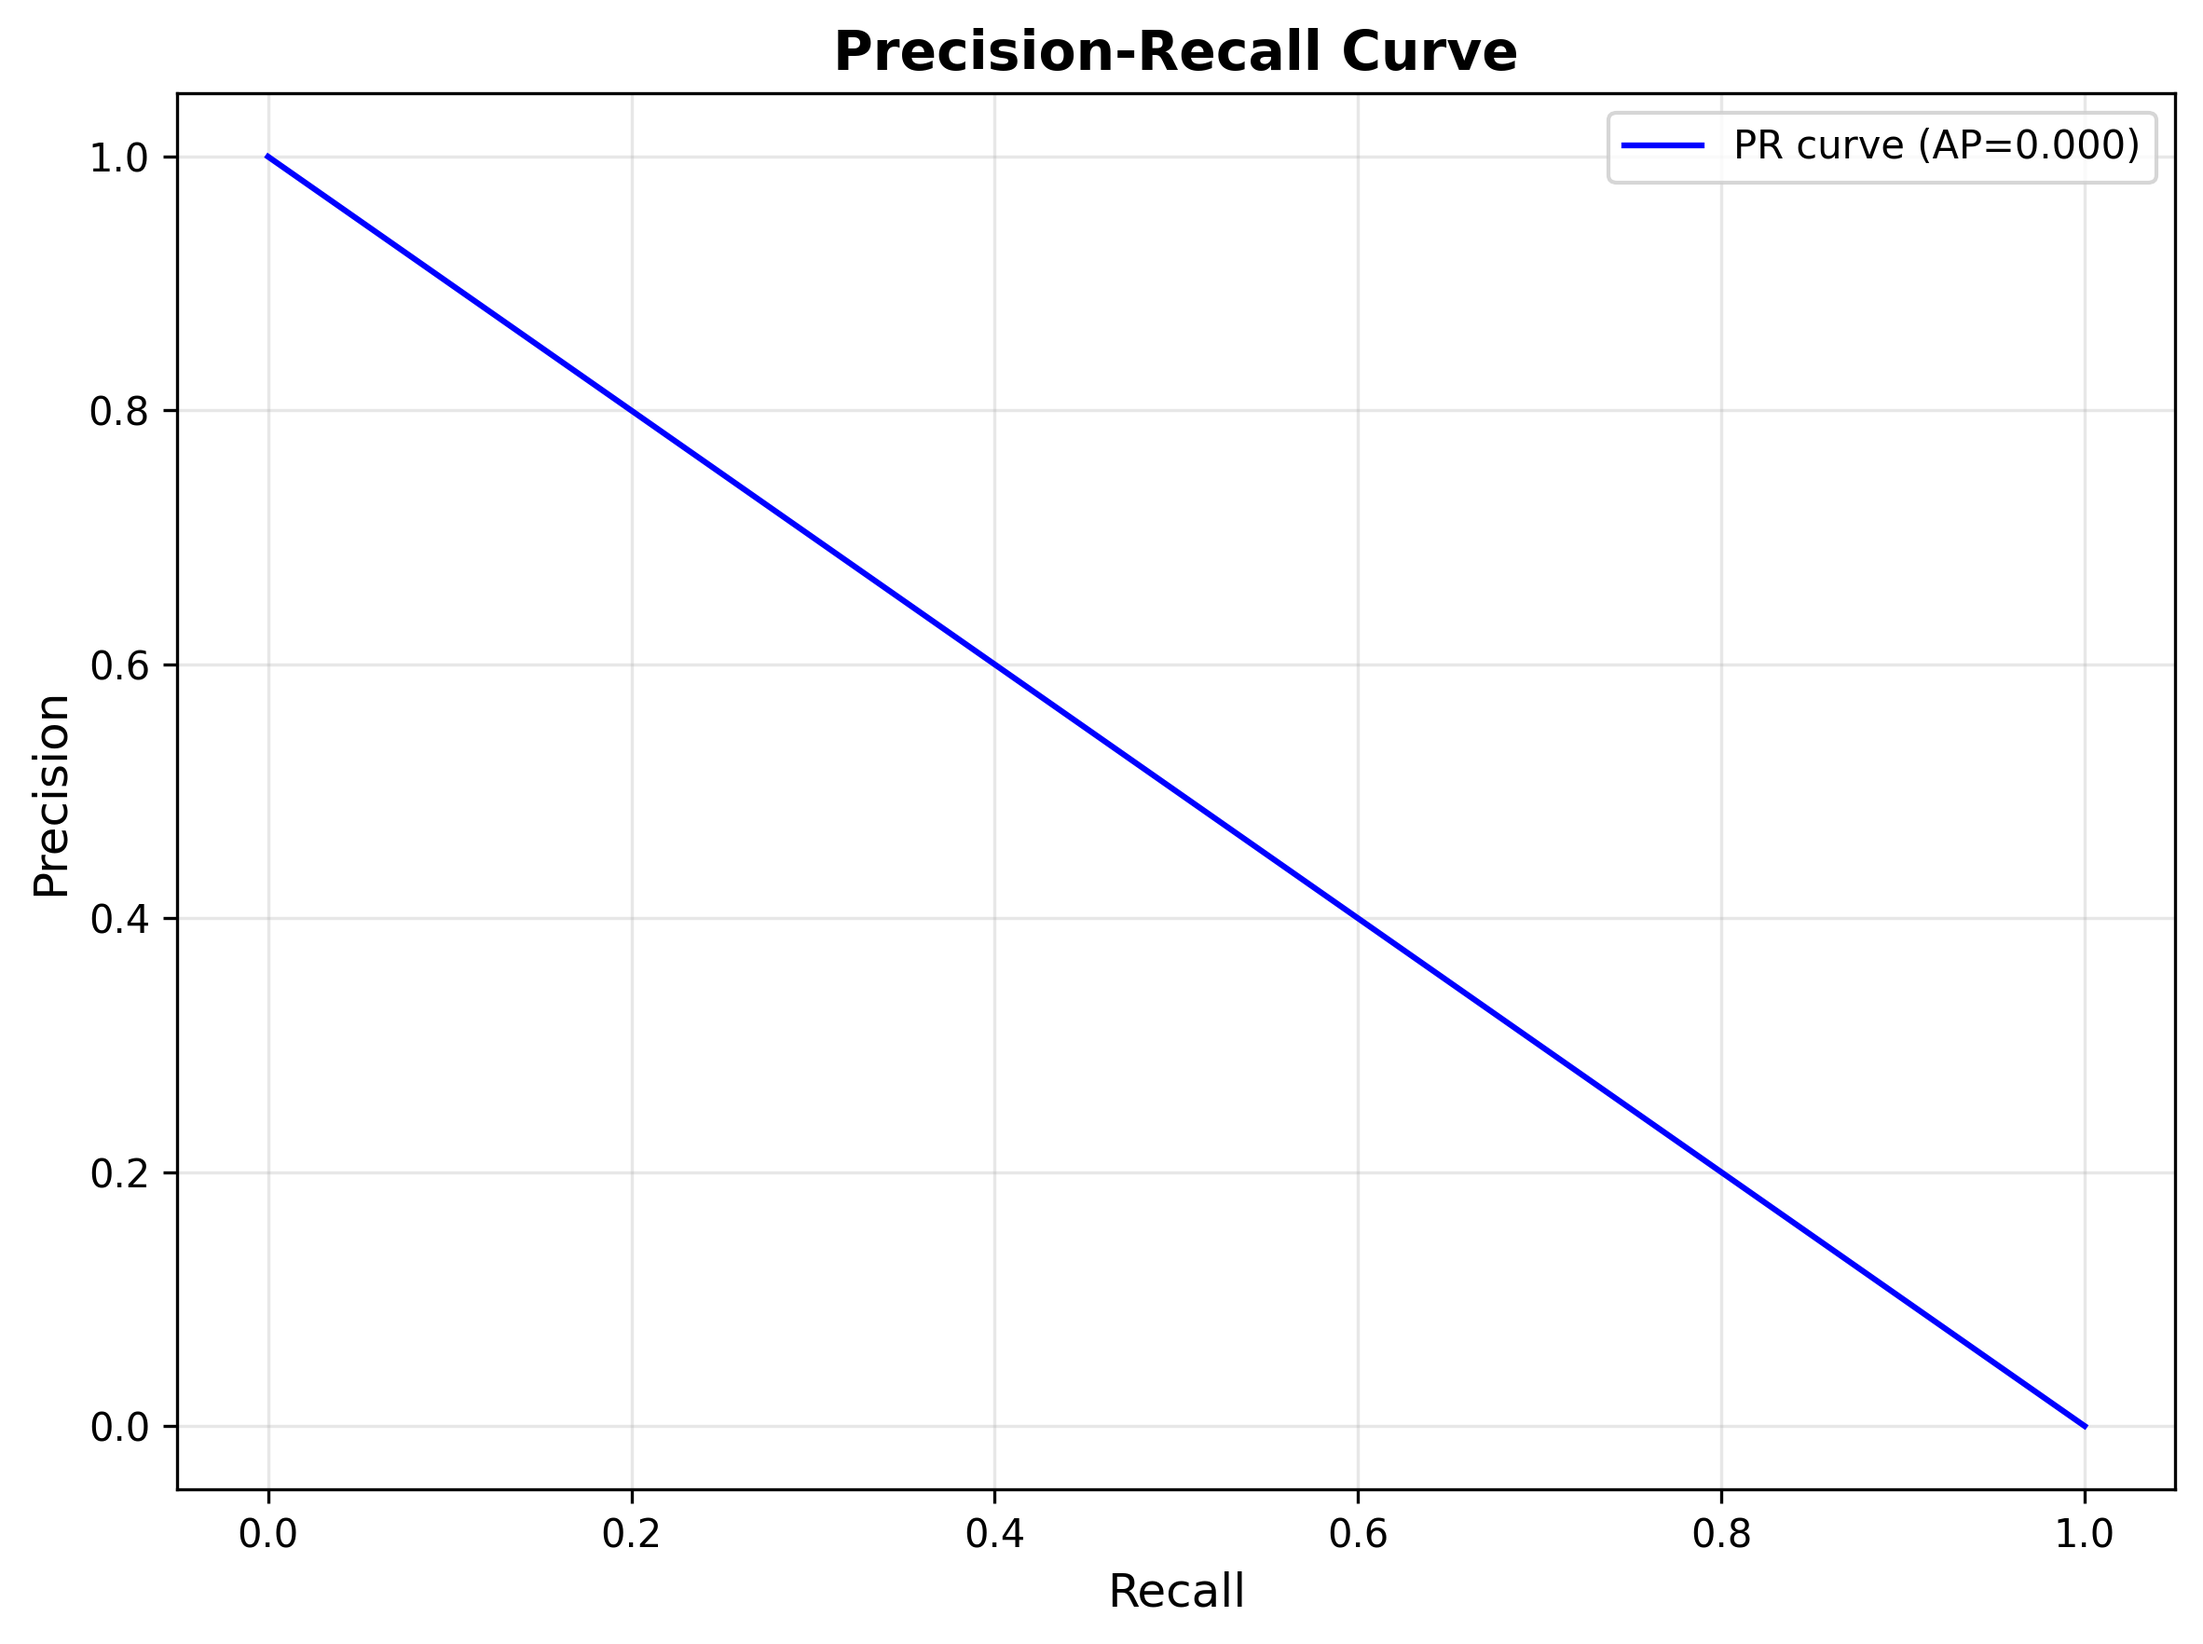
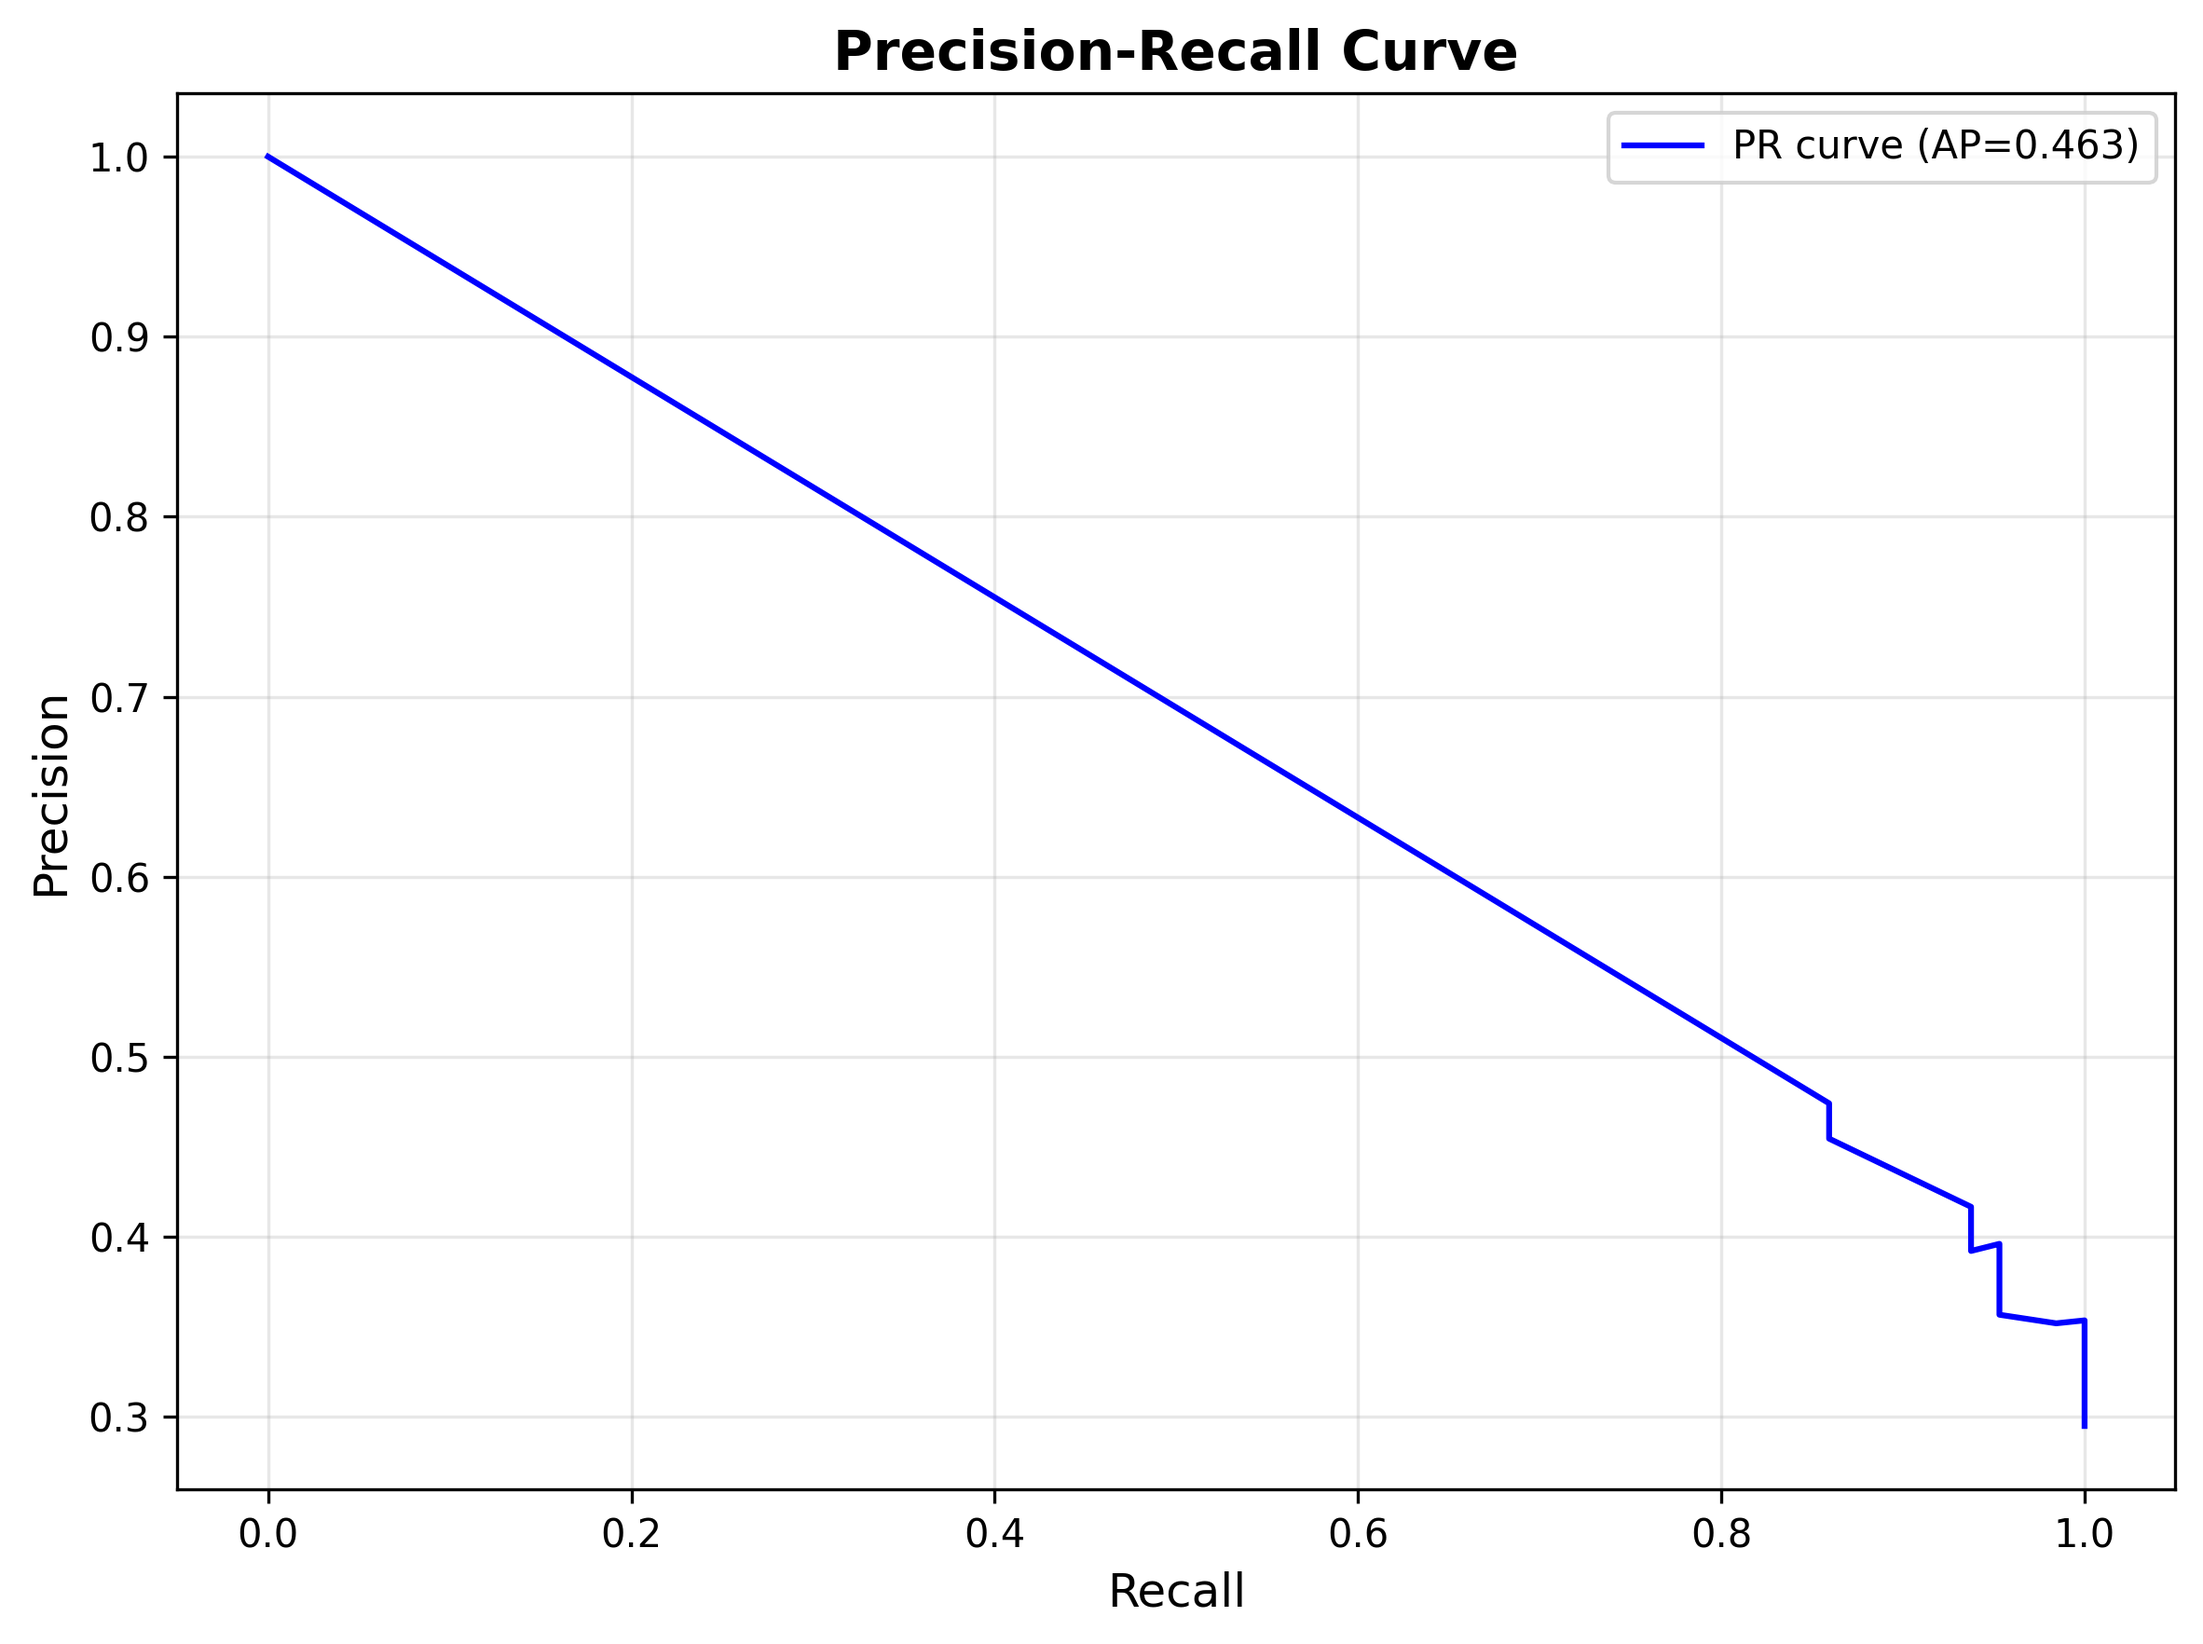
xgboost update

diff --git a/models/model_xgboost.py b/models/model_xgboost.py
@@ -75,11 +75,13 @@ def prepare_features(
 	if target_col not in df.columns:
 		raise ValueError(f"'{target_col}' not found in dataframe.")
 
-	y_reg = df[target_col].astype(float)
-	if "is_real_opportunity" in df.columns:
-		y_cls = df["is_real_opportunity"].astype(int)
-	else:
-		y_cls = (y_reg >= threshold).astype(int)
+	y_reg = df[target_col].shift(-1).astype(float)
+	# if "is_real_opportunity" in df.columns:
+	# 	y_cls = df["is_real_opportunity"].astype(int)
+	# else:
+	# 	y_cls = (y_reg >= threshold).astype(int)
+	threshold = y_reg.quantile(0.75)
+	y_cls = (y_reg >= threshold).astype(int)
 
 	# Remove columns that are targets, time, categorical labels, or direct/derived
 	# leak paths into the target (mirrors linear-model exclusions to keep fairness).
@@ -119,12 +121,11 @@ def prepare_features(
 
 	feature_df = feature_df[numeric_cols]
 
-	# Drop rows with any non-finite feature or target to avoid XGBoost errors.
-	mask_finite = feature_df.notna().all(axis=1) & y_reg.notna()
-	feature_df = feature_df[mask_finite].reset_index(drop=True)
-	y_reg = y_reg[mask_finite].reset_index(drop=True)
-	y_cls = y_cls[mask_finite].reset_index(drop=True)
-	df = df[mask_finite].reset_index(drop=True)
+	# Impute missing values with median for all data
+	# feature_df = feature_df.fillna(feature_df.median())
+	y_reg = y_reg.fillna(y_reg.median())
+	y_cls = y_cls.fillna(y_cls.median()).astype(int)
+	df = df.fillna(df.select_dtypes(include=[np.number]).median())
 
 	return feature_df, y_reg, y_cls, df
 
@@ -438,15 +439,10 @@ def summarize_class_balance(name: str, y: pd.Series) -> str:
 def run(symbol: str, threshold: float, train_frac: float, val_frac: float, seed: int) -> None:
 	df_raw = load_featured(symbol)
 	X, y_reg, y_cls, df = prepare_features(df_raw, threshold=threshold)
-	dropped = len(df_raw) - len(df)
-	if dropped:
-		print(f"Dropped {dropped} rows with non-finite values after cleaning (from {len(df_raw)} to {len(df)})")
-	else:
-		print("No rows dropped for non-finite values")
 
 	n = len(df)
 	if n < 3:
-		print(f"Not enough rows after cleaning (n={n}). Need at least 3 rows for train/val/test. Skipping.")
+		print(f"Not enough rows (n={n}). Need at least 3 rows for train/val/test. Skipping.")
 		return
 
 	# Compute split sizes and ensure each split has at least one row. Adjust gently if needed.
@@ -483,7 +479,6 @@ def run(symbol: str, threshold: float, train_frac: float, val_frac: float, seed:
 			elif n_val > 1:
 				n_val -= 1
 
-	train_end = n_train
 	val_end = n_train + n_val
 	print(f"Using split sizes -> train: {n_train}, val: {n_val}, test: {n_test} (n={n})")
 
@@ -517,7 +512,9 @@ def run(symbol: str, threshold: float, train_frac: float, val_frac: float, seed:
 
 	# Regression metrics on is_real_opportunity=1 (if available in test)
 	if "is_real_opportunity" in df.columns:
-		opp_mask_test = df["is_real_opportunity"].iloc[val_end:] == 1
+		# opp_mask_test = df["is_real_opportunity"].iloc[val_end:] == 1
+		threshold = y_reg.quantile(0.75)
+		opp_mask_test = y_reg.iloc[val_end:] >= threshold
 		opp_total = int(opp_mask_test.sum())
 		if opp_total > 0:
 			reg_opp = regression_metrics(y_reg_test[opp_mask_test.values], test_preds[opp_mask_test.values])
@@ -554,7 +551,9 @@ def run(symbol: str, threshold: float, train_frac: float, val_frac: float, seed:
 
 	# Regression tolerance on rows flagged as real opportunities (if present)
 	if "is_real_opportunity" in df.columns:
-		opp_mask_test = df["is_real_opportunity"].iloc[val_end:] == 1
+		# opp_mask_test = df["is_real_opportunity"].iloc[val_end:] == 1
+		threshold = y_reg.quantile(0.75)
+		opp_mask_test = y_reg.iloc[val_end:] >= threshold
 		opp_total = int(opp_mask_test.sum())
 		if opp_total > 0:
 			frac_opp, hits_opp, _ = fraction_within_tolerance(
